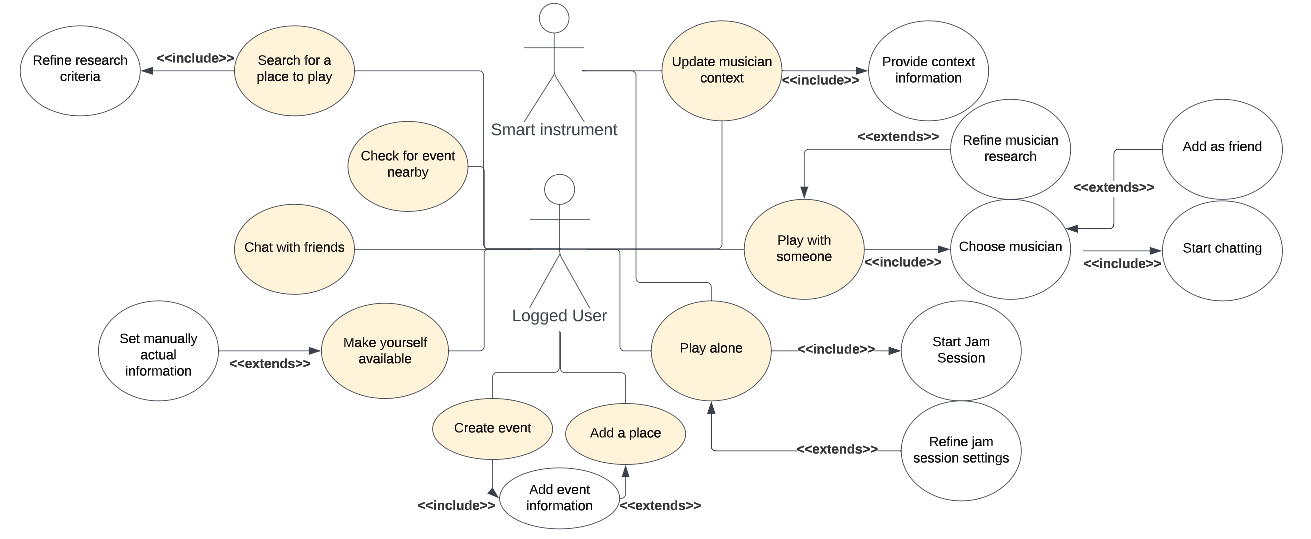
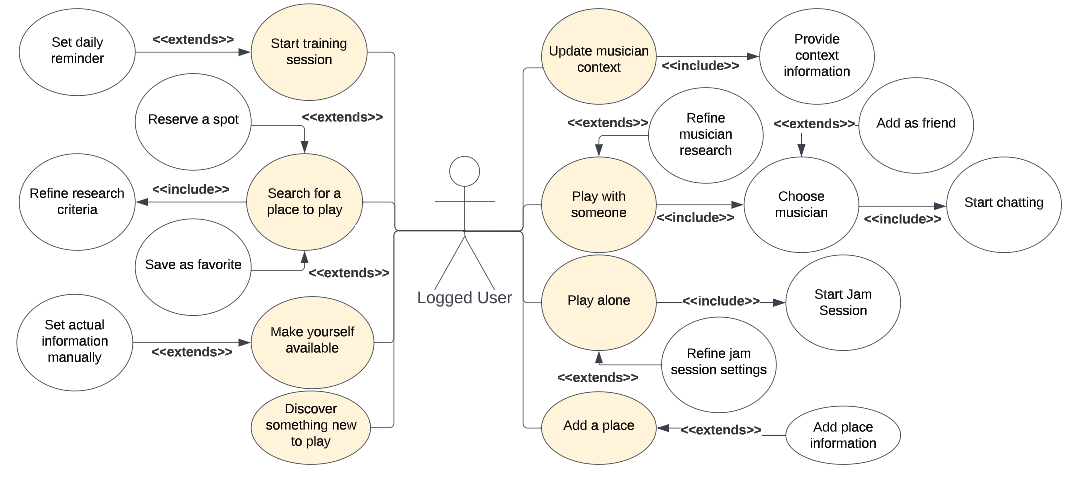
Added some use case both for logged and unlogged user

diff --git a/Use Case Description.md b/Use Case Description.md
@@ -15,10 +15,6 @@ The following user stories are the one that the use cases are built around.
 
 2. As a beginner guitarist, who can't play at home because of the neighbors, i want to find a place where i can play my guitar, so that i can do my exercise and improve myself.
 
-3. As a singer, i want to find some events, so that i can start to play in public and give my career a boost.
-
-4. As a bar owner, i want to find musicians to play in my bar, so that i can attract more customers.
-
 ---
 
 ## Actors
@@ -72,7 +68,7 @@ The user can play along with the system.
 
 1. The system will detect the actual musical context. [Exception 1]
 2. The user can press a button to start the backing track provided by the system. [Exception 2]
-3. The user can play along with the system.
+3. The user can manually set the jam session parameters.
 
 **Exception**:
 
@@ -81,7 +77,7 @@ The user can play along with the system.
 
 ---
 
-#### Use Case "Update context"
+#### Use Case "Update musician context"
 
 **Abstract**:
 The user can set or update his actual musical context.
@@ -97,28 +93,7 @@ The user can set or update his actual musical context.
 
 ---
 
-#### Use Case "Check for event nearby"
-
-**Abstract**:
-The user can check if there are events around him where he can play.
-
-**Description**:
-
-1. The system will provide the user with a list of events corresponding to the user's interest. [Exception 1] [Exception 2]
-2. The user can click on an event and the system will provide the user with the details of that event.
-    2.1 The user can book himself at the event. [Exception 3]
-        2.1.1 The user can choose to participate as a musician or as a spectator.
-    2.2 The user can send that event to his friends.
-
-**Exceptions**:
-
-- Exception 1: There are no events near the user.
-- Exception 2: The events are not matching the user's interest.
-- Eccezione 3: The event is already full.
-
----
-
-#### Use Case "Search for a place to play in"
+#### Use Case "Search for a place to play"
 
 **Abstract**:
 The user can search available places where is possible to play with instruments, either for training or for playing in public.
@@ -150,27 +125,7 @@ The user can make himself available to play with other musicians.
 
 ---
 
-#### Use Case "Chat with friends"
-
-**Abstract**:
-The user can chat with his friends.
-
-**Description**:
-
-1. The user can open the chat page.
-2. The user can select a friend to chat with. [Exception 1]
-3. The user can send a message to the selected friend.
-
-**Exceptions**:
-
-- Exception 1: The user has no friends.
-
----
-
 #### Use Case "Add a place"
-
-**Abstract**:
-The user can add a place open to the public where is possible to play.
 
 **Description**:
 
@@ -190,12 +145,51 @@ The user can add a place open to the public where is possible to play.
 
 ---
 
-#### Use Case "Create event"
+#### Use case "Discover something new to play"
 
 **Abstract**:
-The user can create an event.
+The user can discover new music to play based on his musical context and what is played around him.
 
 **Description**:
+
+1. The system will provide the user with a list of genre that match the user's musical context based on what is played by the musicians near him.
+    1.1 The user can provide some other criteria to refine the search. [Exception 1]
+2. The user can click on a genre and the system will provide the user with the details of that genre.
+    2.1 The user can add that genre to his favorites.
+3. The user can play that genre with the system. [Exception 2]
+
+**Exceptions**:
+
+- Exception 1: There are no genres that match the user's musical context.
+- Exception 2: The system can't provide a backing track for that genre.
+
+---
+
+#### Use case "Start training session"
+
+**Abstract**:
+The user can start a training session with the system and keep track of his progress.
+
+**Description**:
+
+1. The user can open the page to start a training session and play along with the system. [Exception 1]
+2. The user can write what is training on.
+3. The user can set a daily reminder for the training session.
+
+**Exceptions**:
+
+- Exception 1: The system can't provide a backing track for the user.
+
+---
+
+### Discarded Use Cases
+
+- Create an event: The user can create an event and invite other musicians to join him.
+
+<!-- **Abstract**:
+The user can create an event. -->
+
+<!-- **Description**:
 
 1. The user can open the page to create an event.
 2. The user fills the form to create an event.
@@ -205,7 +199,97 @@ The user can create an event.
 **Exceptions**:
 
 - Exception 1: The event has some missing or wrong information.
-- Exception 2: The event is already present in the system.
+- Exception 2: The event is already present in the system. -->
+
+- Check for event nearby: The user can check if there are events around him where he can play.
+
+<!-- **Abstract**:
+The user can check if there are events around him where he can play. -->
+
+<!-- **Description**:
+
+1. The system will provide the user with a list of events corresponding to the user's interest. [Exception 1] [Exception 2]
+2. The user can click on an event and the system will provide the user with the details of that event.
+    2.1 The user can book himself at the event. [Exception 3]
+        2.1.1 The user can choose to participate as a musician or as a spectator.
+    2.2 The user can send that event to his friends.
+
+**Exceptions**:
+
+- Exception 1: There are no events near the user.
+- Exception 2: The events are not matching the user's interest.
+- Eccezione 3: The event is already full. -->
+
+---
+
+### Unlogged user
+
+Possible use cases for an unlogged user. The user that is not logged in the system should be able only to search for places where he can play or enter the system by registering or logging in.
+
+|![width: 100%](./images/UnloggedMusiUML.png)|
+|:--:|
+|*Complete schema of the unlogged user use cases*|
+
+---
+
+#### Use Case "Search for a place to play"
+
+Same as the logged user [use case](#use-case-search-for-a-place-to-play).
+
+---
+
+#### Use Case "Register to the system"
+
+**Abstract**:
+The user can register and create a new account in the system.
+
+**Description**:
+
+1. The user can open the page to register. [Exception 1]
+2. The user provide the necessary information to register. [Exception 2 - 3]
+    2.1 The user can register using third party services (e.g. Facebook, Google, etc.).
+
+**Exceptions**:
+
+- Exception 1: The account is already present in the system.
+- Exception 2: The user has provided some wrong or missing information.
+- Exception 3: The user has provided some information already used for other accounts.
+
+---
+
+#### Use Case "Login to the system"
+
+**Abstract**:
+The user can login to the system.
+
+**Description**:
+
+1. The user can open the page to login.
+2. The user provide the necessary information to login. [Exception 1 - 2]
+3. The user enters the system.
+
+**Exceptions**:
+
+- Exception 1: The user has provided some wrong or missing information.
+- Exception 2: The user is not registered in the system.
+
+---
+
+#### Use Case "Account Recovery"
+
+**Abstract**:
+
+The user can recover his account in case he has lost his credentials.
+
+**Description**:
+
+1. The user can open the page to recover his account.
+2. The user provide the necessary information to recover his account. [Exception 1 - 2]
+
+**Exceptions**:
+
+- Exception 1: The user has provided some wrong or missing information.
+- Exception 2: The user is not registered in the system.
 
 ---
 
@@ -214,4 +298,4 @@ The user can create an event.
 - Gli attori sono ancora da definire.
 - Mancano i casi d'uso "standard" per gestione profilo, login, registrazione, ecc.
 - Non sono sicuro se gli smart instrument siano da inserire come attori. Non se se considerarli un tutt'uno col sistema o un attore a parte.
-- Si potrebbe aggiungere un sistema per lasciare delle recensioni degli eventi o luoghi, volendo anche sui musicisti che si sono esibiti.
+- Si potrebbe aggiungere un sistema per lasciare delle recensioni per i luoghi dove suonare.
